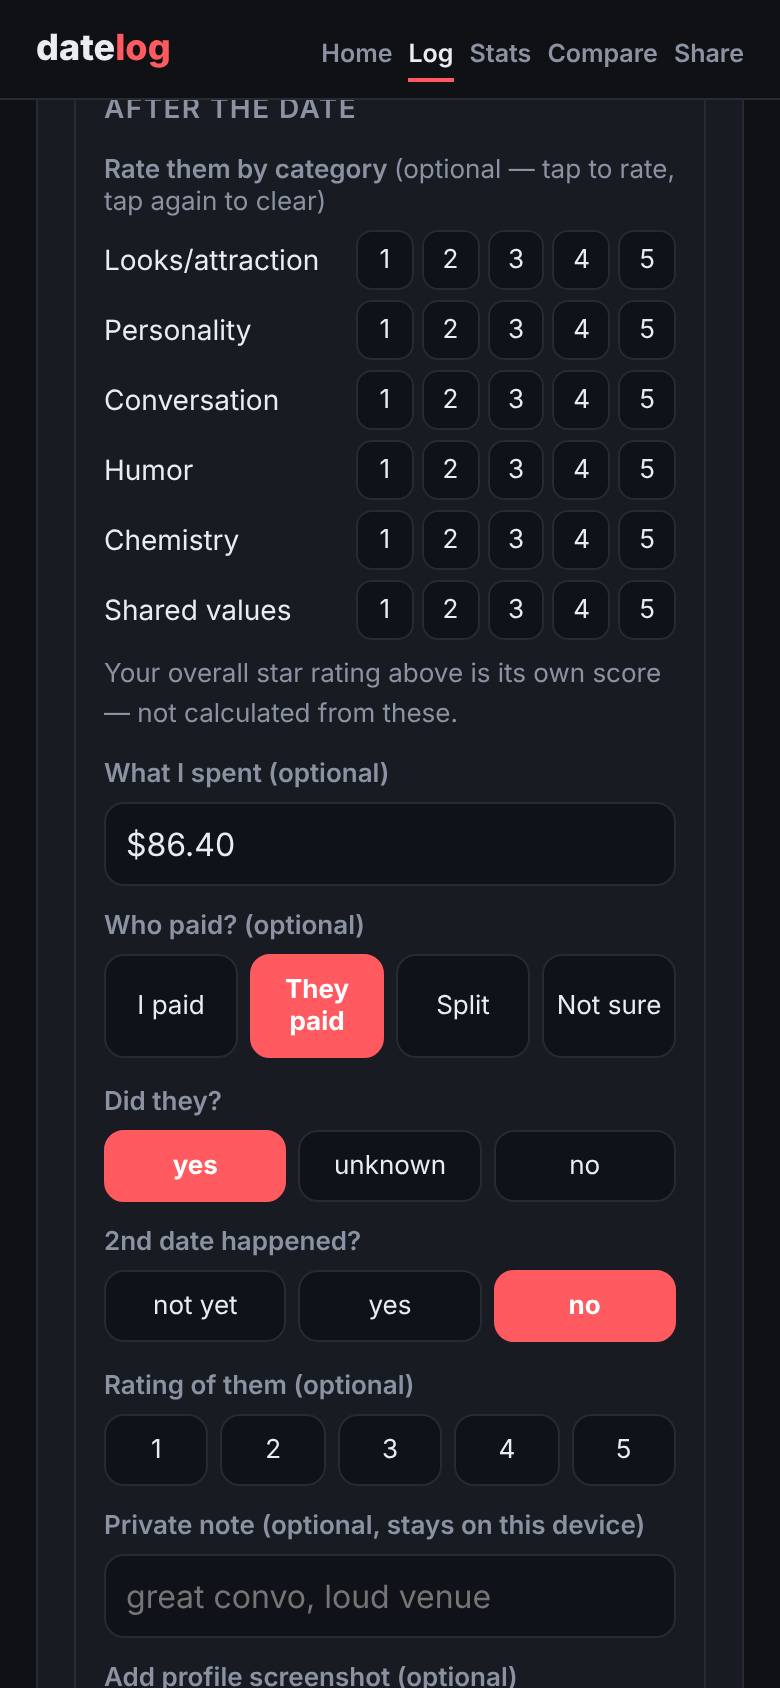
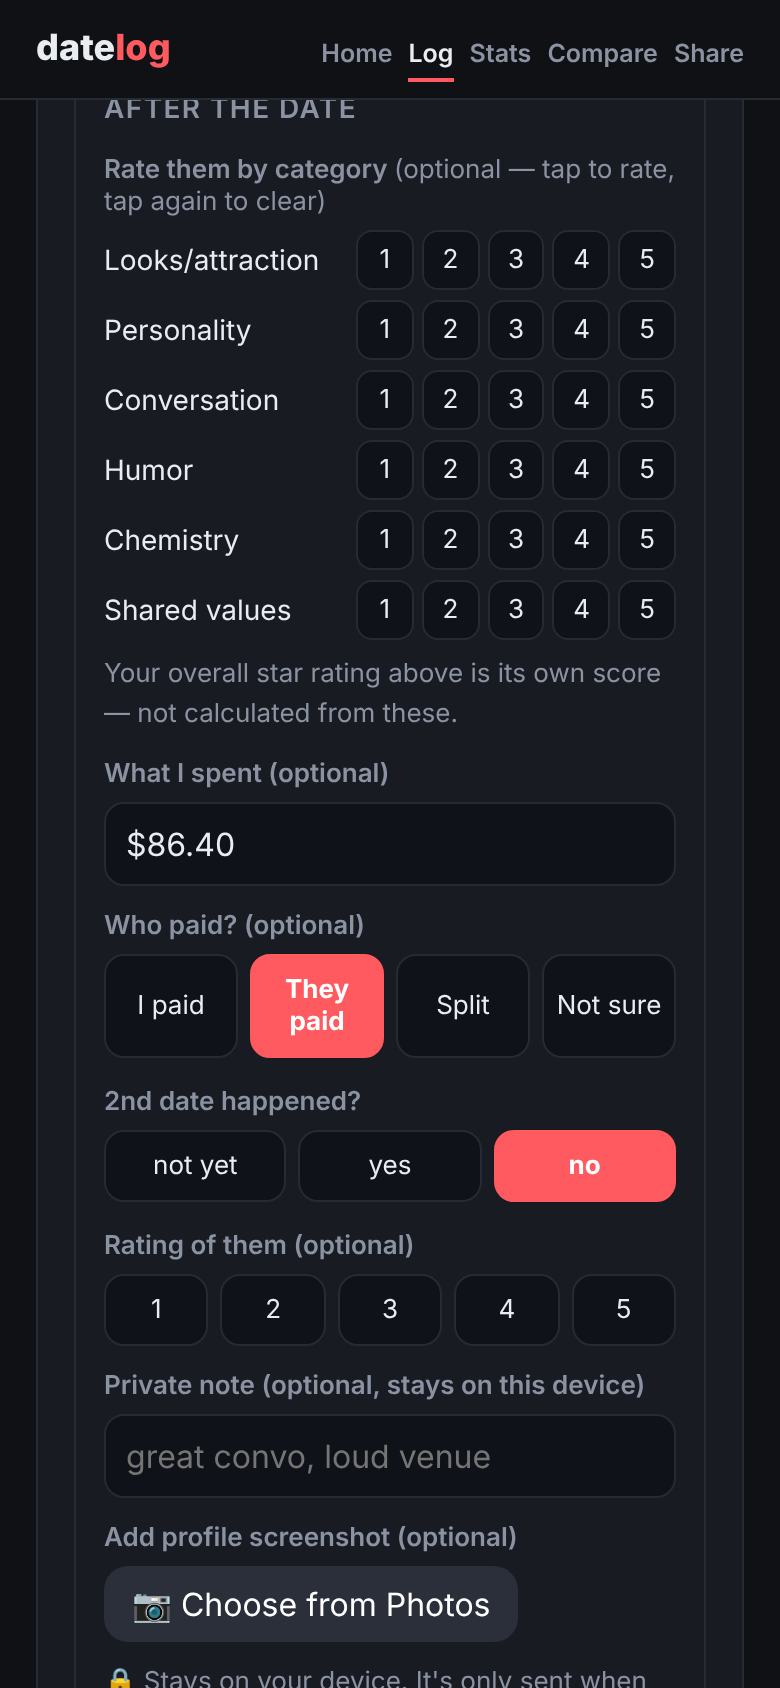
Move 'Did they want to see you again?' under 'Would you see them again?'

Changed region(s): [[0.1231, 0.6469, 0.8923, 1.0]]

diff --git a/index.html b/index.html
@@ -103,6 +103,7 @@ input,select,textarea{width:100%;background:#0f1218;border:1px solid var(--line)
 </div>
  <div class="fld postOnly"><label>How was the date? <span class="muted" style="font-weight:400">(overall)</span></label><div class="seg stars" data-n="went"></div></div>
  <div class="fld postOnly"><label>Would you see them again?</label><div class="seg" data-n="mine"></div></div>
+ <div class="fld postOnly"><label>Did they want to see you again?</label><div class="seg" data-n="theirs"></div></div>
  </div>
  <details id="more" open><summary>Add details</summary><p class="muted" style="font-size:13px;margin:6px 0 0">The more details you record, the better data you'll have.</p><div id="moreDate"></div>
  <div id="preSec">
@@ -119,7 +120,6 @@ input,select,textarea{width:100%;background:#0f1218;border:1px solid var(--line)
  <div class="fld"><label>Rate them by category <span class="muted" style="font-weight:400">(optional — tap to rate, tap again to clear)</span></label><div id="catRows"></div><small class="muted">Your overall star rating above is its own score — not calculated from these.</small></div>
  <div class="grid fld"><div><label>What I spent (optional)</label><input name="spend" type="text" inputmode="decimal" placeholder="$0.00" autocomplete="off"></div><div><label>Who paid? (optional)</label><div class="seg" data-n="paid"></div></div></div>
  <div class="grid fld">
-  <div><label>Did they want to see you again?</label><div class="seg" data-n="theirs"></div></div>
   <div><label id="secLbl">2nd date happened?</label><div class="seg" data-n="second"></div></div>
  </div>
  <div class="fld hide" id="whyBox"><label>Why not? <span class="muted">(pick any)</span></label><div class="seg multi" data-n="why"></div><input data-o="why" class="hide oth" maxlength="40" placeholder="Other reason (private)"></div>
